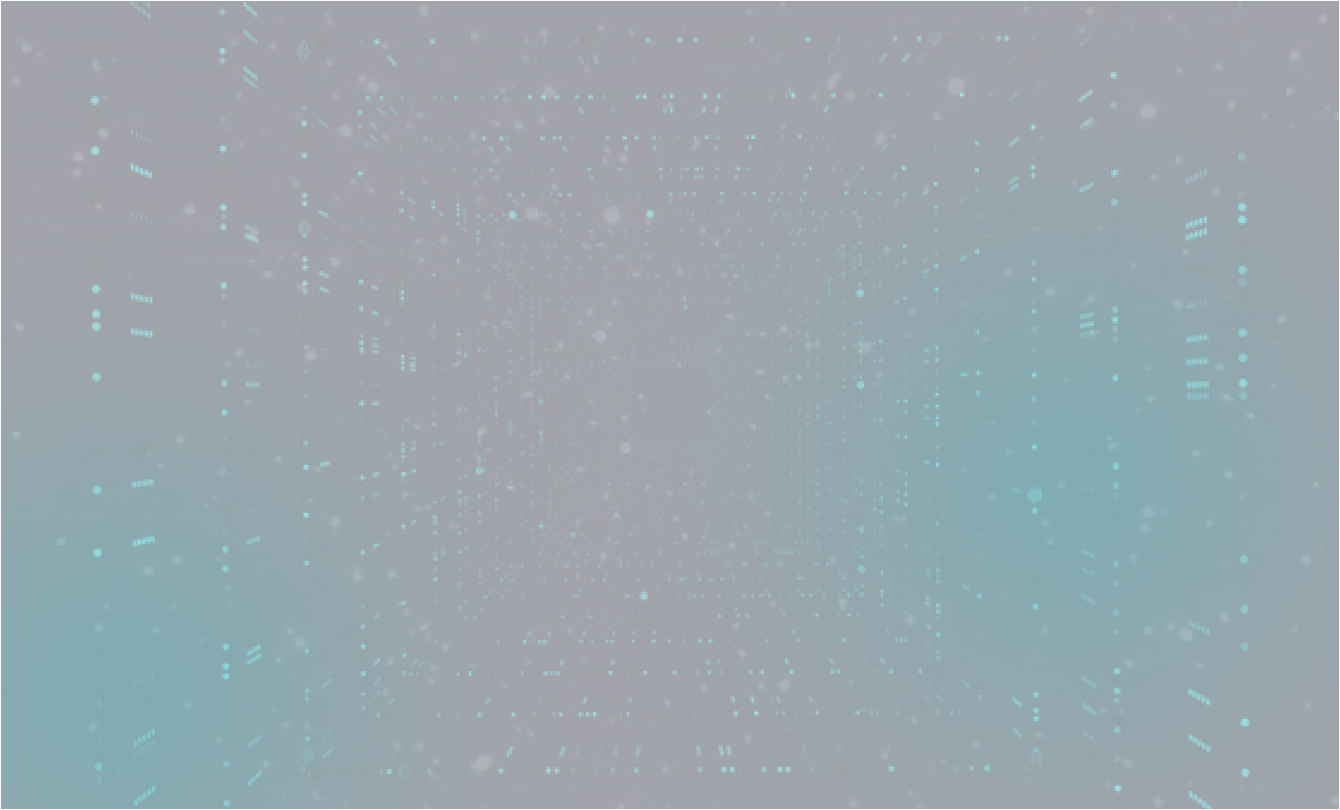
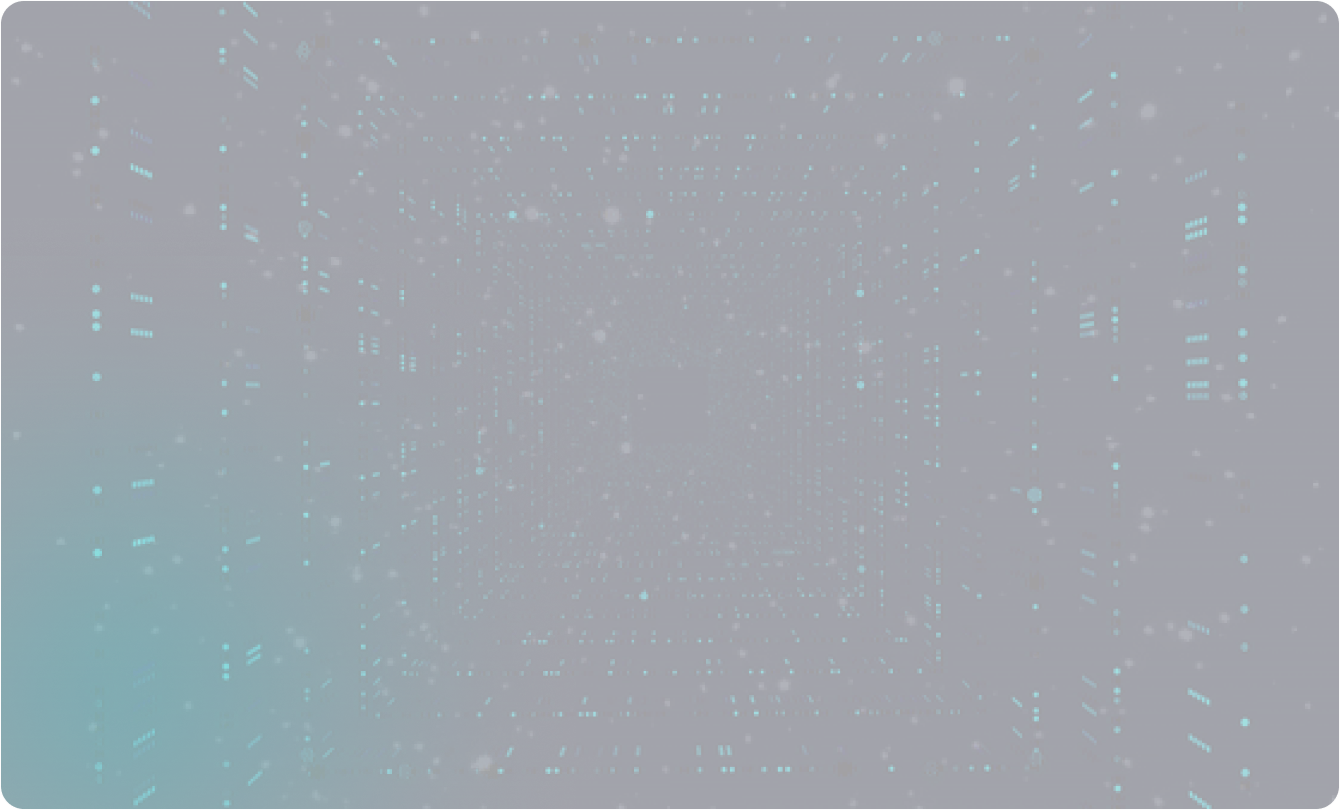
update

diff --git a/src/components/AI.jsx b/src/components/AI.jsx
@@ -8,15 +8,15 @@ const AI = () => {
             <div className='bg-[url(./assets/images/ai-bg.webp)] border rounded-[24px] mx-auto px-3 border-[#FCFCFC] bg-no-repeat bg-full max-w-[1340px] w-full ' id="about" >
                 <div className="max-w-[1145px] py-8 px-3 mx-auto flex items-center justify-center min-h-[810px]">
                     <div className="flex flex-row -mx-3 flex-wrap ">
-                        <div className="md:w-6/12 w-full px-3" data-aos="fade-right">
+                        <div className="md:w-6/12 w-full relative z-[1] px-3" data-aos="fade-right">
                             <h2 className='text-[#02CDCF] font-bold sm:text-[30px] text-[20px] md:text-[40px] leading-[50px] ff-recharge'>What is NexAi?</h2>
                             <p className='max-w-[564px] opacity-70 pt-2 sm:pt-4 text-[13px] sm:text-[16px] leading-[25px] text-white font-poppins font-normal'>Beyond its convenience, Nexai revolutionizes the way you interact with your home environment. It enhances productivity, efficiency, and overall well-being. From managing your schedules to transforming the way you experience smart living, Nexai opens up a world of possibilities.</p>
                             <p className='max-w-[564px] opacity-70 pt-2 text-[13px] sm:text-[16px] leading-[25px] pb-[20px] sm:pb-[40px] text-white font-poppins font-normal'>Nexai's software can be installed on all your smart devices, including smartphones, computers, smart TVs, and kitchen appliances. It acts as a centralized control hub, allowing you to manage and interact with all your devices seamlessly. Whether it's adjusting the temperature, turning on appliances, or even accessing files on your home computer from anywhere, Nexai empowers you with effortless control.</p>
                             <Commonbtn text="Learn More" />
                         </div>
                         <div className="md:w-6/12 w-full px-3 max-md:pt-8 relative">
-                            <div className="max-w-[468px] min-h-[463px] w-full rounded-full mix-blend-hue blur-3xl top-0 bottom-0 bg-[#02CDCF] absolute z-[3]"></div>
-                            <img className='w-full max-md:rounded-full relative z-[4] mix-blend-lighten' src={ai} alt="ai" />
+                            <div className="max-w-[468px] min-h-[463px] w-full rounded-full mix-blend-hue blur-3xl  top-0 bottom-0 bg-[#02CDCF] absolute z-[3]"></div>
+                            <img className='w-full max-md:rounded-full relative z-[4]' src={ai} alt="ai" />
                         </div>
                     </div>
                 </div>
